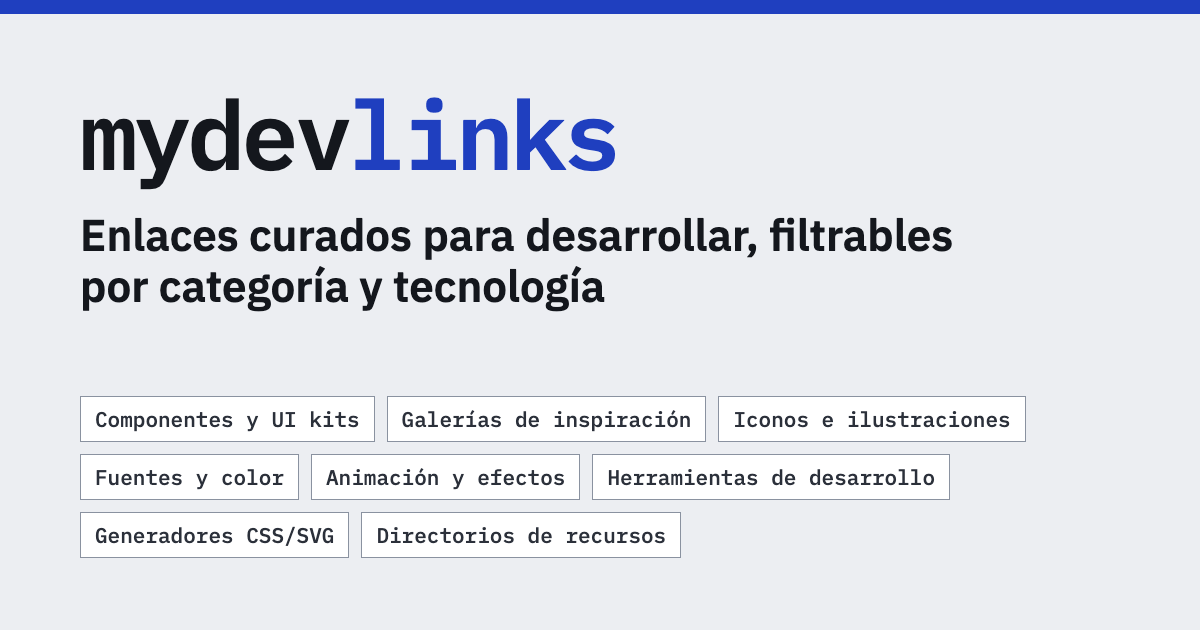
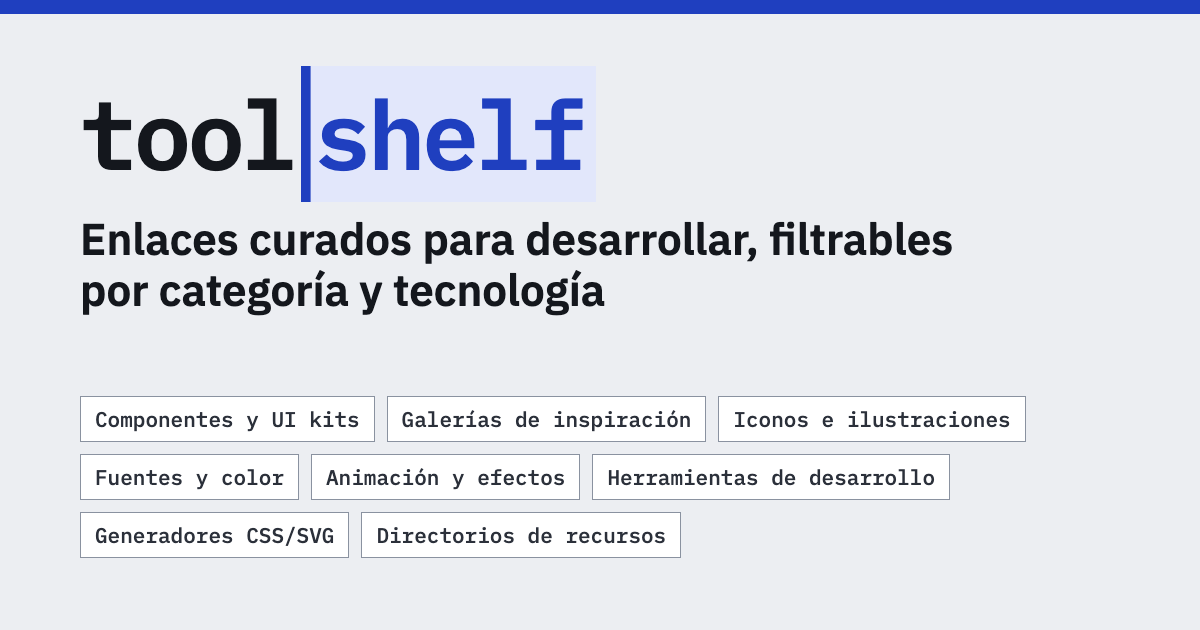
feat: renombra el sitio a toolshelf
- Marca, títulos, metadatos y dominio de respaldo (toolshelf.netlify.app).
- Logotipo "tool" + "shelf" resaltado, con la misma animación de coincidencia.
- Favicon, apple-touch-icon y og.png con la marca nueva.

Changed region(s): [[0.0617, 0.3317, 0.8017, 0.5127], [0.0617, 0.0905, 0.5242, 0.3317]]

diff --git a/src/lib/seo.ts b/src/lib/seo.ts
@@ -1,7 +1,7 @@
-export const SITE_NAME = 'mydevlinks';
+export const SITE_NAME = 'toolshelf';
 
 /** Imagen para redes de las páginas sin captura propia (1200×630). */
-export const DEFAULT_OG_IMAGE = { path: '/og.png', width: 1200, height: 630, alt: 'mydevlinks: enlaces curados para desarrollar' };
+export const DEFAULT_OG_IMAGE = { path: '/og.png', width: 1200, height: 630, alt: 'toolshelf: enlaces curados para desarrollar' };
 
 /** Previews y branch deploys de Netlify: se publican, pero no se indexan. */
 export const NO_INDEX = Boolean(process.env.SITE_NOINDEX);

diff --git a/src/styles/global.css b/src/styles/global.css
@@ -449,7 +449,7 @@ html:not([data-js]) [data-app] {
 	}
 
 	/*
-	 * Logotipo: "links" se escribe letra por letra, como en el buscador,
+	 * Logotipo: "shelf" se escribe letra por letra, como en el buscador,
 	 * y al completarse queda resaltado igual que una coincidencia.
 	 */
 	.logo-hit {

diff --git a/README.md b/README.md
@@ -1,4 +1,4 @@
-# mydevlinks
+# toolshelf
 
 Una base propia de enlaces para desarrollar, que reemplaza años de bookmarks. Cada enlace se entiende sin abrirlo y se filtra por categoría, tecnología y texto. En el directorio, la ficha lleva al detalle del enlace (`/enlace/<id>`) y la flecha junto al nombre abre la web en otra pestaña. Es un sitio estático en Astro y Tailwind, sin framework de interfaz.
 

diff --git a/DESIGN.md b/DESIGN.md
@@ -1,5 +1,5 @@
 ---
-name: mydevlinks
+name: toolshelf
 description: Enlaces para desarrollar, presentados como hojas de datos y filtrables por categoría, tecnología y texto.
 colors:
   accent: "#1f3fbf"
@@ -176,7 +176,7 @@ components:
     padding: "2px 6px"
 ---
 
-# Design System: mydevlinks
+# Design System: toolshelf
 
 ## Overview
 
